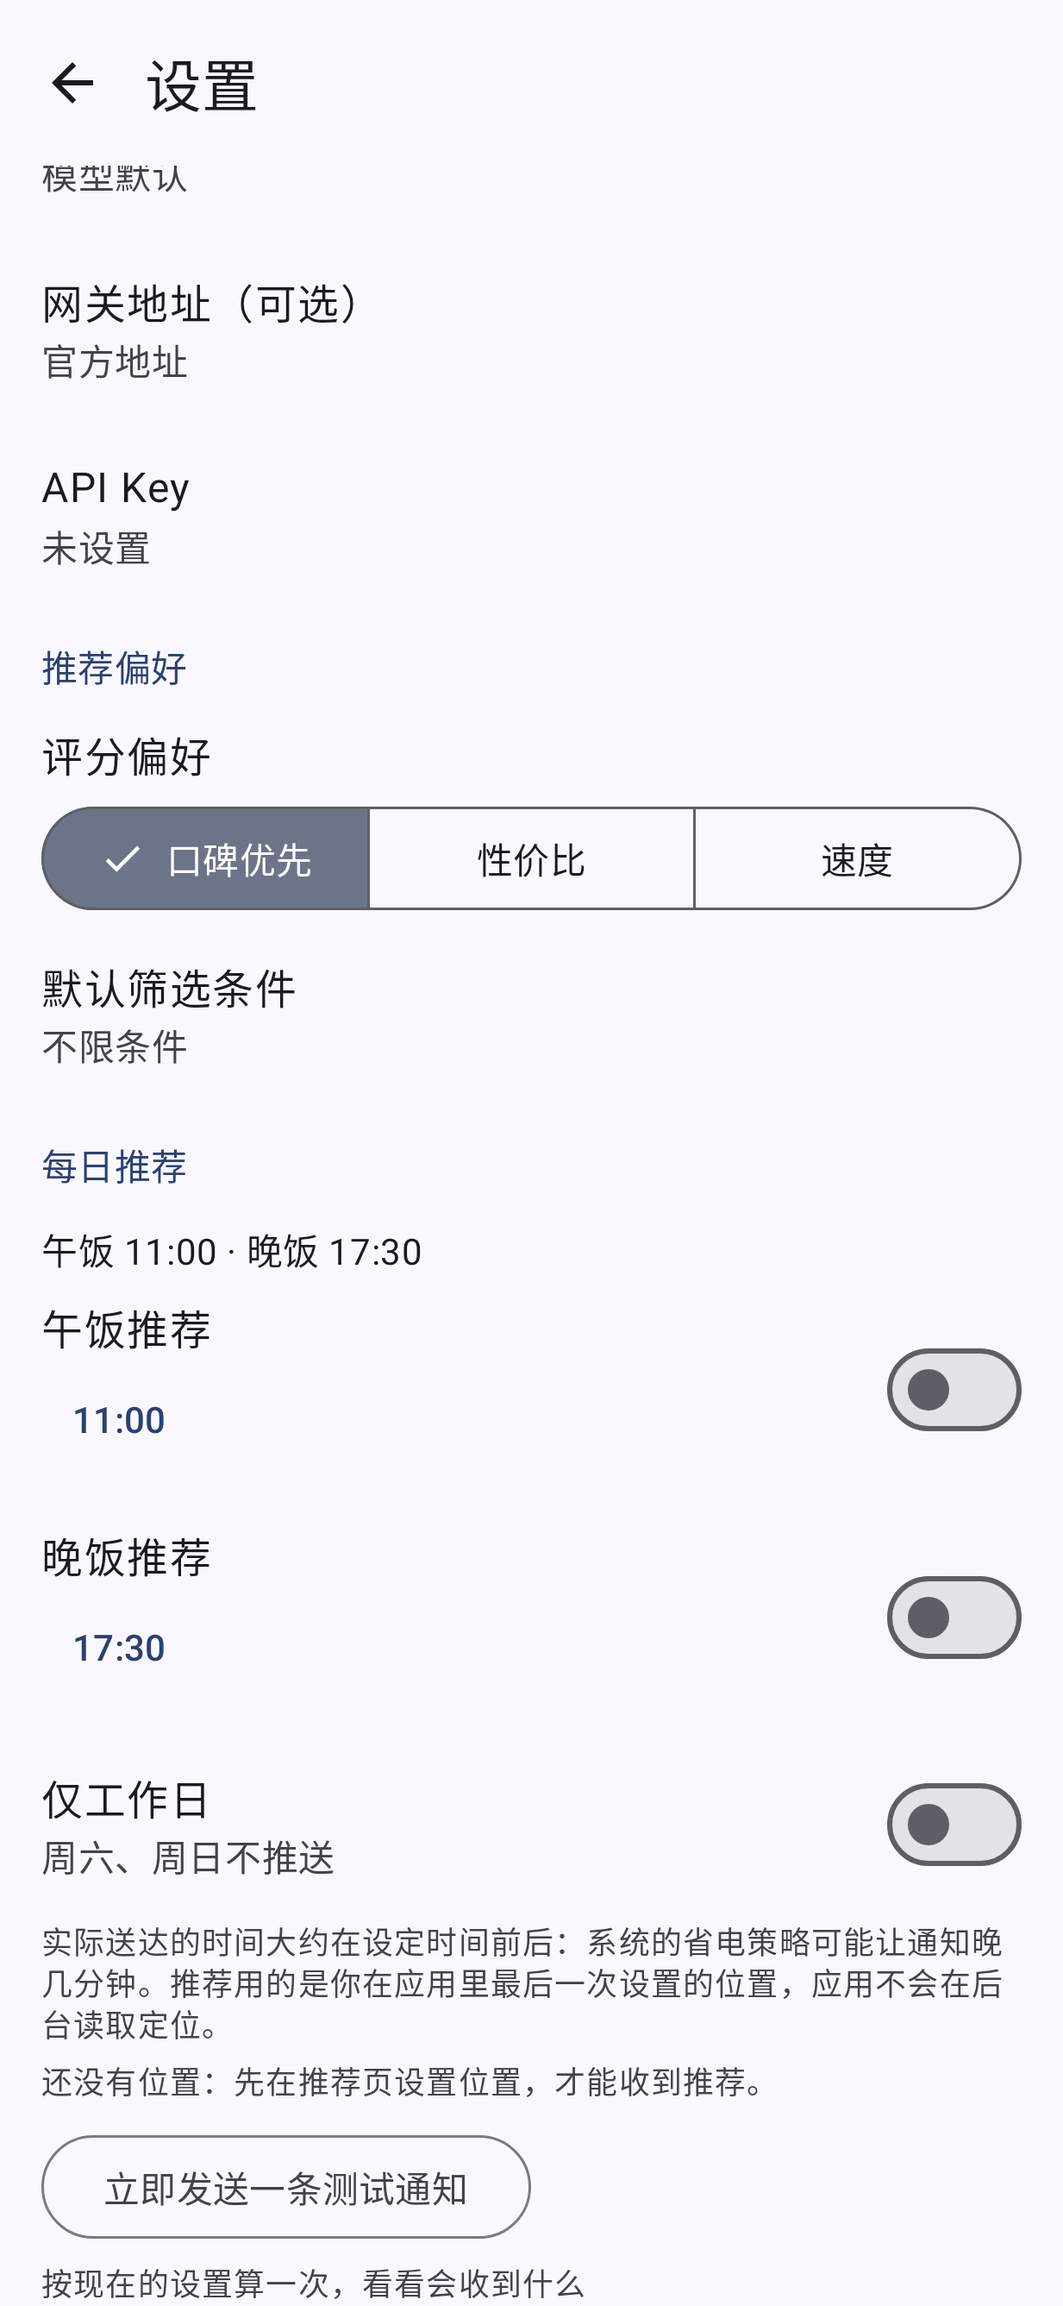
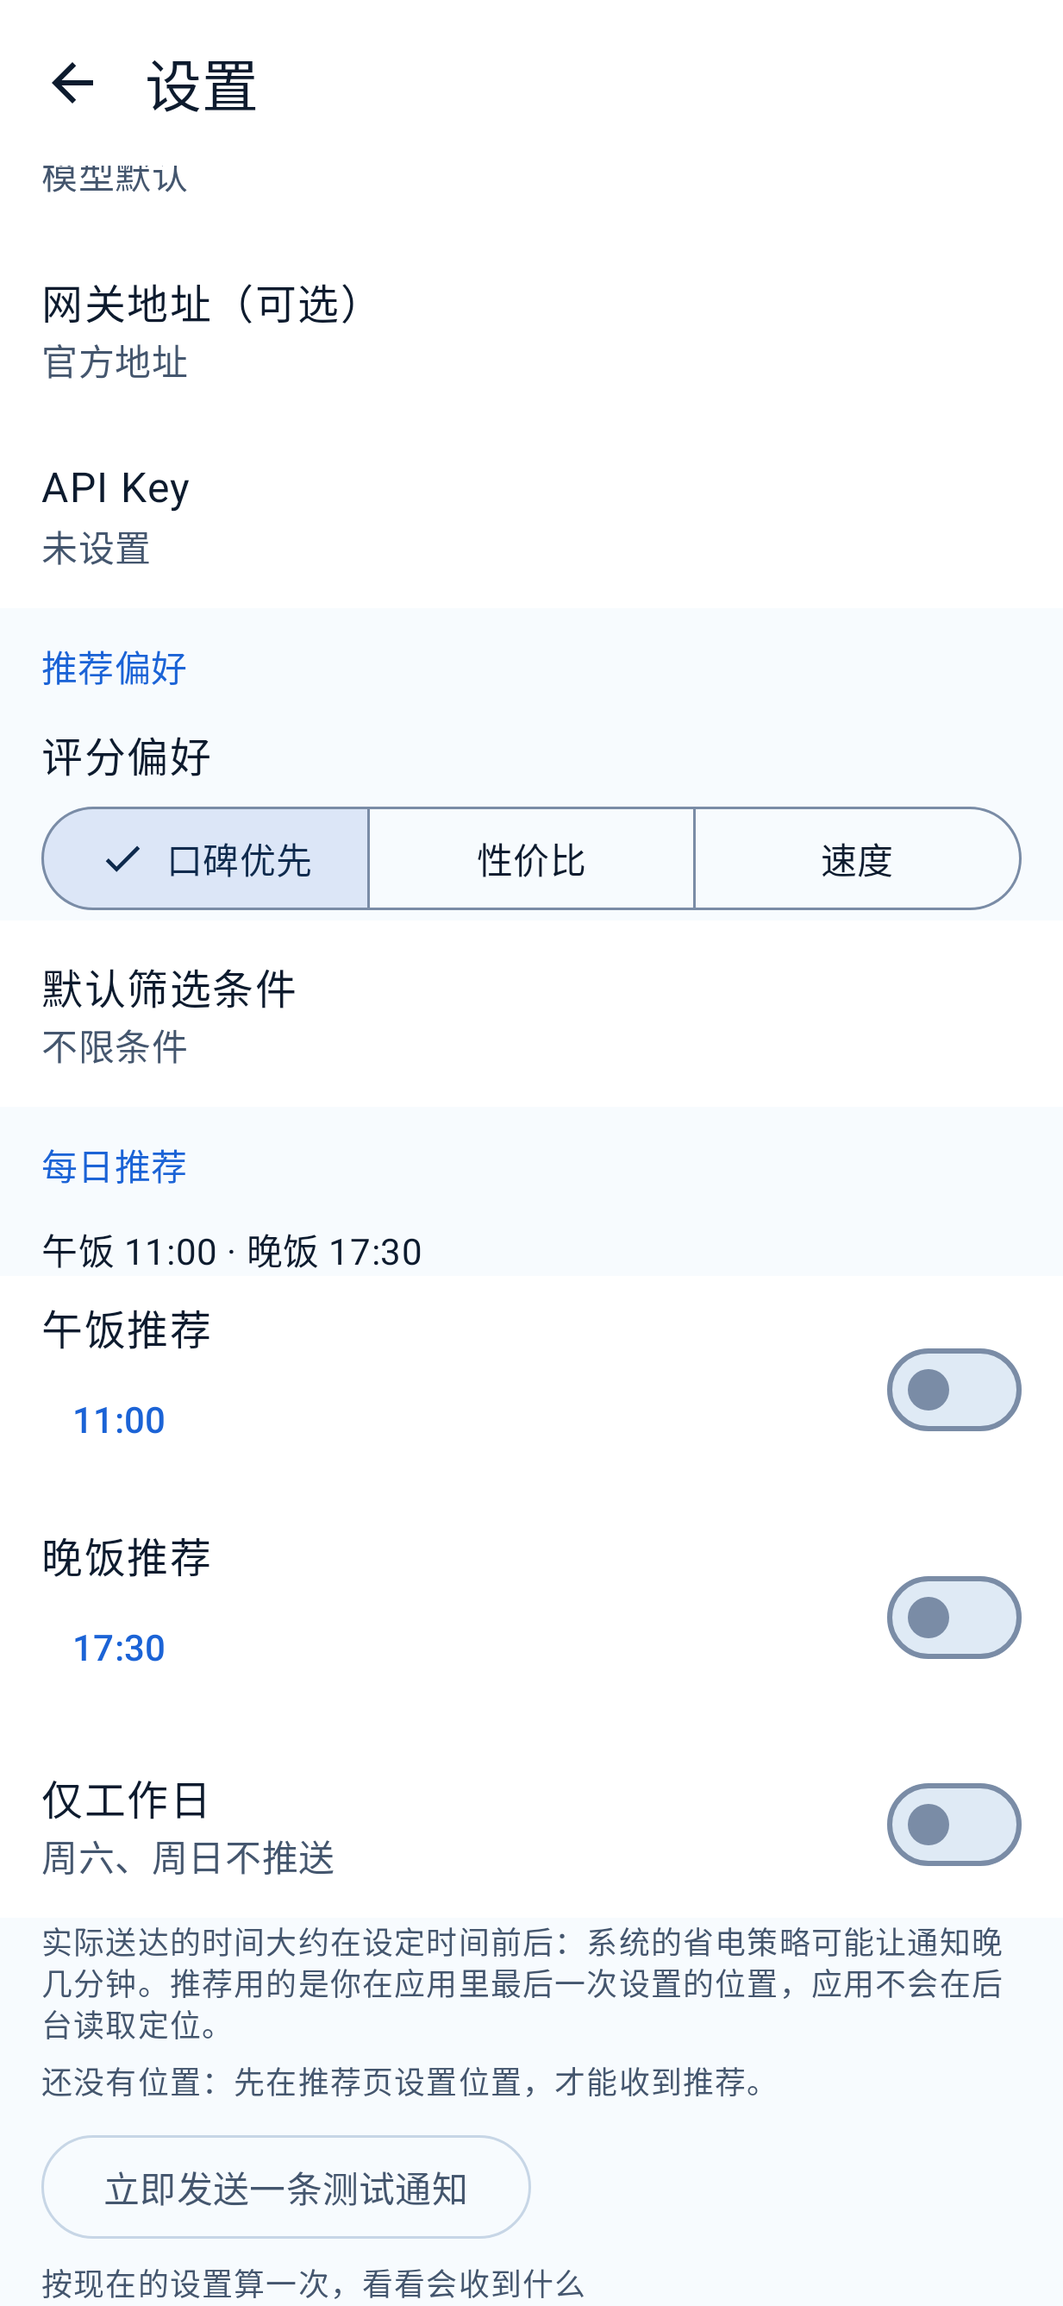
Re-theme from orange to the deep-sea blue brand palette
Per the style handoff (sections 3.1-3.4): new light/dark Material 3 schemes,
muted ink-green "good" and warm-gold "caution" semantic colours, launcher
background #0E3D7A, and KoubeiTheme(dynamicColor = false) by default so the
wallpaper palette no longer overrides the brand colours on Android 12+.
Only Theme.kt and colors.xml carry colours; no logic, layout or test changed.

The character art that inspired the palette is not in the repo or the APK
(CC BY-NC-SA, non-commercial). Screenshots in docs/ are re-rendered with the
new theme. CLAUDE.md added with the project conventions supplied by the owner.

Claude-Session: https://claude.ai/code/session_01ArcJ59BofKtBQiZUgYFEGq

diff --git a/app/src/main/kotlin/com/koubeiradar/app/ui/theme/Theme.kt b/app/src/main/kotlin/com/koubeiradar/app/ui/theme/Theme.kt
@@ -16,50 +16,52 @@ import androidx.compose.runtime.staticCompositionLocalOf
 import androidx.compose.ui.graphics.Color
 import androidx.compose.ui.platform.LocalContext
 
-// Tonal palette generated from the brand seed #FF6A00 (Material "vibrant" scheme).
+// Tonal palette generated from the deep-sea brand seed #2676ED.
 private val LightColors = lightColorScheme(
-    primary = Color(0xFFA14000), onPrimary = Color(0xFFFFFFFF),
-    primaryContainer = Color(0xFFFFDBCC), onPrimaryContainer = Color(0xFF7B2F00),
-    secondary = Color(0xFF7D5635), onSecondary = Color(0xFFFFFFFF),
-    secondaryContainer = Color(0xFFFFDCC2), onSecondaryContainer = Color(0xFF623F20),
-    tertiary = Color(0xFF7D571D), onTertiary = Color(0xFFFFFFFF),
-    tertiaryContainer = Color(0xFFFFDDB4), onTertiaryContainer = Color(0xFF624005),
+    primary = Color(0xFF1B63D6), onPrimary = Color(0xFFFFFFFF),
+    primaryContainer = Color(0xFFD3E6FF), onPrimaryContainer = Color(0xFF062251),
+    inversePrimary = Color(0xFF9CC9FF),
+    secondary = Color(0xFF4A5F86), onSecondary = Color(0xFFFFFFFF),
+    secondaryContainer = Color(0xFFDCE6F7), onSecondaryContainer = Color(0xFF0E2A4D),
+    tertiary = Color(0xFF8A6A20), onTertiary = Color(0xFFFFFFFF),
+    tertiaryContainer = Color(0xFFF7E8C4), onTertiaryContainer = Color(0xFF3A2A00),
     error = Color(0xFFBA1A1A), onError = Color(0xFFFFFFFF),
     errorContainer = Color(0xFFFFDAD6), onErrorContainer = Color(0xFF93000A),
-    background = Color(0xFFFFF8F6), onBackground = Color(0xFF261812),
-    surface = Color(0xFFFFF8F6), onSurface = Color(0xFF261812),
-    surfaceVariant = Color(0xFFFCDCCE), onSurfaceVariant = Color(0xFF584238),
-    outline = Color(0xFF8B7266), outlineVariant = Color(0xFFDFC0B3),
-    inverseSurface = Color(0xFF3D2D25), inverseOnSurface = Color(0xFFFFEDE6), inversePrimary = Color(0xFFFFB694),
-    surfaceTint = Color(0xFFA14000),
-    surfaceDim = Color(0xFFF0D4C9), surfaceBright = Color(0xFFFFF8F6),
-    surfaceContainerLowest = Color(0xFFFFFFFF), surfaceContainerLow = Color(0xFFFFF1EB),
-    surfaceContainer = Color(0xFFFFEAE1), surfaceContainerHigh = Color(0xFFFEE3D7),
-    surfaceContainerHighest = Color(0xFFF8DDD2),
+    background = Color(0xFFF7FBFE), onBackground = Color(0xFF0D1B2E),
+    surface = Color(0xFFFFFFFF), onSurface = Color(0xFF0D1B2E),
+    surfaceVariant = Color(0xFFE3EDF7), onSurfaceVariant = Color(0xFF44566E),
+    outline = Color(0xFF7A8CA6), outlineVariant = Color(0xFFC7D6E6),
+    inverseSurface = Color(0xFF2B3A4D), inverseOnSurface = Color(0xFFEAF1F8),
+    surfaceTint = Color(0xFF1B63D6),
+    surfaceDim = Color(0xFFDCE6F0), surfaceBright = Color(0xFFFFFFFF),
+    surfaceContainerLowest = Color(0xFFFFFFFF), surfaceContainerLow = Color(0xFFFAFCFE),
+    surfaceContainer = Color(0xFFF0F6FC), surfaceContainerHigh = Color(0xFFE8F1FA),
+    surfaceContainerHighest = Color(0xFFDFEAF5),
 )
 
 private val DarkColors = darkColorScheme(
-    primary = Color(0xFFFFB694), onPrimary = Color(0xFF571F00),
-    primaryContainer = Color(0xFF7B2F00), onPrimaryContainer = Color(0xFFFFDBCC),
-    secondary = Color(0xFFEFBC94), onSecondary = Color(0xFF48290C),
-    secondaryContainer = Color(0xFF623F20), onSecondaryContainer = Color(0xFFFFDCC2),
-    tertiary = Color(0xFFF1BE7A), onTertiary = Color(0xFF452B00),
-    tertiaryContainer = Color(0xFF624005), onTertiaryContainer = Color(0xFFFFDDB4),
+    primary = Color(0xFF9CC9FF), onPrimary = Color(0xFF002F66),
+    primaryContainer = Color(0xFF0E3D7A), onPrimaryContainer = Color(0xFFD3E6FF),
+    inversePrimary = Color(0xFF1B63D6),
+    secondary = Color(0xFFB3C6E0), onSecondary = Color(0xFF1C3048),
+    secondaryContainer = Color(0xFF33475F), onSecondaryContainer = Color(0xFFDCE6F7),
+    tertiary = Color(0xFFEBD69E), onTertiary = Color(0xFF3A2A00),
+    tertiaryContainer = Color(0xFF5A4410), onTertiaryContainer = Color(0xFFF7E8C4),
     error = Color(0xFFFFB4AB), onError = Color(0xFF690005),
     errorContainer = Color(0xFF93000A), onErrorContainer = Color(0xFFFFDAD6),
-    background = Color(0xFF1D100A), onBackground = Color(0xFFF8DDD2),
-    surface = Color(0xFF1D100A), onSurface = Color(0xFFF8DDD2),
-    surfaceVariant = Color(0xFF584238), onSurfaceVariant = Color(0xFFDFC0B3),
-    outline = Color(0xFFA68B7F), outlineVariant = Color(0xFF584238),
-    inverseSurface = Color(0xFFF8DDD2), inverseOnSurface = Color(0xFF3D2D25), inversePrimary = Color(0xFFA14000),
-    surfaceTint = Color(0xFFFFB694),
-    surfaceDim = Color(0xFF1D100A), surfaceBright = Color(0xFF47352E),
-    surfaceContainerLowest = Color(0xFF180B06), surfaceContainerLow = Color(0xFF261812),
-    surfaceContainer = Color(0xFF2B1C15), surfaceContainerHigh = Color(0xFF36261F),
-    surfaceContainerHighest = Color(0xFF42312A),
+    background = Color(0xFF061224), onBackground = Color(0xFFD8E6F5),
+    surface = Color(0xFF0B1A30), onSurface = Color(0xFFD8E6F5),
+    surfaceVariant = Color(0xFF1B2C46), onSurfaceVariant = Color(0xFFAFC2D8),
+    outline = Color(0xFF8CA0BC), outlineVariant = Color(0xFF3A4C66),
+    inverseSurface = Color(0xFFD8E6F5), inverseOnSurface = Color(0xFF0B1A30),
+    surfaceTint = Color(0xFF9CC9FF),
+    surfaceDim = Color(0xFF061224), surfaceBright = Color(0xFF22354F),
+    surfaceContainerLowest = Color(0xFF040D1A), surfaceContainerLow = Color(0xFF0A1728),
+    surfaceContainer = Color(0xFF102340), surfaceContainerHigh = Color(0xFF16304F),
+    surfaceContainerHighest = Color(0xFF1E3B5E),
 )
 
-/** Semantic colours Material 3 has no roles for: "good" and "caution". They stay fixed when dynamic colour is on. */
+/** Semantic colours Material 3 has no roles for: "good" (muted ink green) and "caution" (warm gold). They stay fixed when dynamic colour is on. */
 @Immutable
 class KoubeiColors(
     val success: Color,
@@ -71,13 +73,13 @@ class KoubeiColors(
 )
 
 private val LightKoubeiColors = KoubeiColors(
-    success = Color(0xFF376934), successContainer = Color(0xFFB8F1AD), onSuccessContainer = Color(0xFF002203),
-    warning = Color(0xFF825500), warningContainer = Color(0xFFFFDDB2), onWarningContainer = Color(0xFF291800),
+    success = Color(0xFF2E7D46), successContainer = Color(0xFFC3EFCD), onSuccessContainer = Color(0xFF00210B),
+    warning = Color(0xFF8A6A20), warningContainer = Color(0xFFF7E8C4), onWarningContainer = Color(0xFF3A2A00),
 )
 
 private val DarkKoubeiColors = KoubeiColors(
-    success = Color(0xFF9CD593), successContainer = Color(0xFF1E511E), onSuccessContainer = Color(0xFFB8F1AD),
-    warning = Color(0xFFFFB94E), warningContainer = Color(0xFF624000), onWarningContainer = Color(0xFFFFDDB2),
+    success = Color(0xFF9CD9AE), successContainer = Color(0xFF14532B), onSuccessContainer = Color(0xFFC3EFCD),
+    warning = Color(0xFFEBD69E), warningContainer = Color(0xFF5A4410), onWarningContainer = Color(0xFFF7E8C4),
 )
 
 private val LocalKoubeiColors = staticCompositionLocalOf { LightKoubeiColors }
@@ -90,7 +92,8 @@ val MaterialTheme.koubeiColors: KoubeiColors
 @Composable
 fun KoubeiTheme(
     darkTheme: Boolean = isSystemInDarkTheme(),
-    dynamicColor: Boolean = true,
+    // Brand colours come first: with true, Android 12+ takes the wallpaper palette and LightColors/DarkColors are ignored.
+    dynamicColor: Boolean = false,
     content: @Composable () -> Unit,
 ) {
     val colorScheme: ColorScheme = when {

diff --git a/docs/DESIGN.md b/docs/DESIGN.md
@@ -304,7 +304,7 @@ UI 与智能体共享的内存池 = **附近店铺（来自 ShopSource）∪ 导
 
 ## 7. Android 应用（`:app`）
 
-技术栈：Kotlin、Jetpack Compose + Material 3（动态取色）、Navigation Compose、ViewModel + StateFlow、DataStore、协程；**手动 DI**（`AppContainer`），不引入 Hilt/KSP；`minSdk 26`，`targetSdk 36`。**不依赖 Google Play 服务**（国内机型常没有）：定位用系统 `LocationManager`。
+技术栈：Kotlin、Jetpack Compose + Material 3（深海蓝品牌配色，默认关闭动态取色）、Navigation Compose、ViewModel + StateFlow、DataStore、协程；**手动 DI**（`AppContainer`），不引入 Hilt/KSP；`minSdk 26`，`targetSdk 36`。**不依赖 Google Play 服务**（国内机型常没有）：定位用系统 `LocationManager`。
 
 | 页面 | 内容 |
 |---|---|
@@ -361,7 +361,7 @@ UI 与智能体共享的内存池 = **附近店铺（来自 ShopSource）∪ 导
 | `:agent` | 假 LLM 脚本化跑完整循环（并行工具、提醒一次、兜底、未知 shop_id 纠错、提示注入）；两个客户端用 MockWebServer 验证线协议（Claude 为 SSE 流：thinking 签名与分片入参重组、流中途 `error`、断流、取消即断开连接，以及 thinking 块回放、`is_error`、工具结果合并；OpenAI `arguments` 字符串）；**端到端：真实工具 + 真实候选池 + 真实打分器 + 脚本化模型** | 155 |
 | `:app` | ViewModel（假服务；含定位地址：先显示定位、后台解析出标签并持久化、失败静默、演示模式零请求、新定位/手输地址取消旧解析、旧版空地址设备位置照常读取）、设置与加密（含数据源选择、百度 AK、旧版设置兼容）、数据源选择、坐标转换、分享入口与限额、持久化；**Robolectric 冒烟测试**：真实 `MainActivity`/`AppContainer` 启动到首帧、各标签与详情/设置导航、旋转重建、分享入口、无 Key 引导、权限被拒、1.5 倍字体、暗色，并产出截图；**每日推荐**：`nextTrigger` 边界（严格晚于、周末、跨月年、夏令时）、用例决定（无位置/无店/避雷/文案/重试）、设置持久化与旧版本兼容、WorkManager 请求与通知（Robolectric） | 274 |
 
-冒烟测试在 JVM 上跑，**不等于真机**：真实 AndroidKeyStore、软键盘/窗口边距、真实定位、动态取色都没有覆盖（定位地址的冒烟测试用的是假的反向地理编码器，没有网络）。它们发现并修复了 3 个真实缺陷（异常的分享提供方让导入页崩溃；分享到达时已存活的导入页不会切换标签；提示条按钮白底白字），评审中又加固了持久化写线程（任何异常都不会让它静默停止）；两位独立评审者另外复现并修复了 10 个缺陷（见 README），其回归测试在 `reviewer/`、`review/` 包下；其中 R1a/R1e 验证取消 Claude 调用会真的断开连接（响应头之前的限制见 §5.5）。
+冒烟测试在 JVM 上跑，**不等于真机**：真实 AndroidKeyStore、软键盘/窗口边距、真实定位、品牌配色在真机上的实际观感都没有覆盖（定位地址的冒烟测试用的是假的反向地理编码器，没有网络）。它们发现并修复了 3 个真实缺陷（异常的分享提供方让导入页崩溃；分享到达时已存活的导入页不会切换标签；提示条按钮白底白字），评审中又加固了持久化写线程（任何异常都不会让它静默停止）；两位独立评审者另外复现并修复了 10 个缺陷（见 README），其回归测试在 `reviewer/`、`review/` 包下；其中 R1a/R1e 验证取消 Claude 调用会真的断开连接（响应头之前的限制见 §5.5）。
 
 未验证：真实高德/百度/Claude/OpenAI 兼容接口（只有 MockWebServer；反向地理编码的 `formatted_address`、无结果的真实返回与地址质量，见 §3.5；百度 3.0 圆形检索的评分字段嵌套形状（页面无示例）、`type` 作关键字筛选与 `sort_name:distance` 的实际效果、每页实际条数、地理编码无结果的返回、真实 AK 的 IP 白名单/SN 限制，见 §3.4）、Anthropic SDK 在 Android 上的运行、R8 规则在真机上的效果（§7.2，只检查过 R8 输出）、外卖 App 包名、评分对真实数据的校准。
 

diff --git a/CLAUDE.md b/CLAUDE.md
@@ -1,0 +1,81 @@
+# 口碑雷达 · 项目约定
+
+Android App：从附近外卖/餐厅里按「口碑」筛店。Kotlin + Jetpack Compose + Material 3。
+
+## 架构
+
+```
+:app   (Compose UI)  ──►  :agent (LLM 客户端、顾问智能体、导入提取器)
+         │                      │
+         └──────►  :data (高德/百度 POI、地理编码、演示数据、候选池)  ──►  :core (模型、口碑评分、筛选)
+```
+
+评分是确定性、可解释的内核；LLM 只负责听懂需求、读评价、把截图变数据。**不要为了 UI 改动碰 core/data/agent。**
+
+构建：JDK 17+ / compileSdk 37 / `./gradlew test`（820 条，全绿是基线）/ `./gradlew assembleDebug`。
+
+---
+
+## 视觉：深海蓝系统
+
+品牌视觉来自社区「鲸鱼娘 / 蓝色大肥鱼」形象的风格拆解，**只取视觉语言，不取角色**。完整规范见 `../whale_style_assets/whale_style_guide.md`（项目外，只读参考）。
+
+### 色阶
+
+```
+ink_900   #062251   最深文字、轮廓
+blue_800  #0E3D7A   深位背景
+blue_700  #14305E   卡片标题
+blue_600  #2676ED   主强调（seed）
+blue_500  #0D9EF0   高亮、链接
+cyan_400  #5CA0C4   次级强调
+cyan_300  #65CBF1   图表、进度
+cyan_100  #A4E9F5   浅底
+gold_300  #EBD69E   徽章边、星级
+gold_500  #C9A961   描边、分割
+blush_200 #F5C8C3   弱警示
+violet_700 #363F6A  暗色卡片
+```
+
+### 五条造型规则
+
+1. 单色相纵深：只走蓝一个色相，靠明度拉层次；金色点缀面积 ≤ 3%
+2. 描边用深蓝 `#1C2A4A`，不用纯黑
+3. 转角全圆，不出现尖角
+4. 四段渐变 `#1C3064 → #38609C → #5CA0C4 → #A0D0E4`，用于按钮/进度环/评分环
+5. 留白靠纯白切分，弱化 divider
+
+强调渐变：`#2676ED → #65CBF1`（135°）。
+
+### 语义色
+
+好评用低饱和墨绿 `#2E7D46`（深色模式 `#9CD9AE`），不用草绿；警示用暖金 `#8A6A20`（深色 `#EBD69E`）。语义色在 `Theme.kt` 的 `KoubeiColors` 里，不进 `colorScheme`。
+
+---
+
+## 硬约束
+
+**1. 素材不进 APK。**
+`../whale_style_assets/` 下的角色图片是 CC BY-NC-SA 4.0，禁止商用。不要复制到 `app/src/main/res/`，不要打包进任何构建产物。只可用作颜色、圆角、线宽、图标造型的参考。要放吉祥物必须自绘原创形象。
+
+**2. 品牌色不能被动态取色覆盖。**
+`KoubeiTheme` 的 `dynamicColor` 必须保持 `false`。为 `true` 时 Android 12+ 会走 `dynamicLightColorScheme()` 从用户壁纸取色，`LightColors`/`DarkColors` 整个失效——模拟器看着变了、真机没变，就是这个原因。
+
+**3. 不要为适配配色去改测试断言。**
+除非测试里硬编码了旧色值。
+
+---
+
+## 代码风格
+
+- 主题集中在 `app/src/main/kotlin/com/koubeiradar/app/ui/theme/Theme.kt`，别在组件里散落硬编码颜色
+- 颜色优先走 `MaterialTheme.colorScheme.*`，语义色走 `MaterialTheme.koubeiColors.*`
+- 新增颜色先加到色阶表，再引用 token 名，不要直接写 hex
+- 布局用 Compose 原生，不引入新依赖
+
+## 文档
+
+- `README.md` — 功能、构建、验证状态（含「尚未真机联调」的如实说明）
+- `docs/RESEARCH.md` — 数据源调研
+- `docs/DESIGN.md` — 评分算法与架构
+- `../whale_style_assets/whale_style_guide.md` — 视觉规范与素材索引（项目外，只读参考）

diff --git a/README.md b/README.md
@@ -17,7 +17,7 @@
 
 ## 界面预览
 
-下面是在 JVM 上用 Robolectric 渲染的真实界面（演示数据，无需任何 Key）。配色是 Robolectric 的默认 Material You 取色，真机上会跟随你的壁纸。
+下面是在 JVM 上用 Robolectric 渲染的真实界面（演示数据，无需任何 Key）。配色是深海蓝品牌色（`KoubeiTheme` 的 `dynamicColor` 默认关闭，不跟随壁纸取色）；截图在 JVM 上渲染，真机上的实际观感没有核对过。
 
 | 推荐页 | 暗色模式 | 智能体 | 规则排序兜底 |
 |---|---|---|---|
@@ -83,7 +83,7 @@ export ANDROID_HOME=/path/to/android-sdk     # 或在 local.properties 里写 sd
 - 冒烟测试发现并修复了 3 个真实缺陷（异常的分享提供方会让导入页崩溃；分享到达时不会切到导入页；提示条按钮白底白字）。
 
 **没有验证（请自行确认）**
-- **真机/模拟器运行**：沙箱没有 KVM，没有跑过真实设备。Robolectric 不等于真机（动态取色、软键盘/窗口边距、真实 AndroidKeyStore、`LocationManager` 的真实定位都没覆盖）。
+- **真机/模拟器运行**：沙箱没有 KVM，没有跑过真实设备。Robolectric 不等于真机（品牌配色在真机上是否生效、软键盘/窗口边距、真实 AndroidKeyStore、`LocationManager` 的真实定位都没覆盖）。
 - **真实高德接口**：只用 MockWebServer 验证了解析与错误映射；字段名来自官方文档，没有用真实 Key 调用过。
 - **反向地理编码（定位地址）**：高德 `/v3/geocode/regeo` 与百度 `/reverse_geocoding/v3/` 的参数、返回字段对照官方页读过（经网页抓取摘要，两页都没有示例响应）；高德页没有说明 `regeocode.formatted_address` 与 `infocode`，两家"该点没有地址"的真实返回、高德 `radius` 在 `extensions=base` 下的效果、百度国内版专页都**没有核实**；全部只用 MockWebServer 与假实现验证，**没有调用过任何真实接口**，地址质量（街道/商圈是否合理）要真机真 Key 才知道。失败时界面静默退回"当前位置"。逐项见 [DESIGN.md §3.5](docs/DESIGN.md)。
 - **真实百度接口**：同样只有 MockWebServer。端点（官方「地点检索 3.0」`/place/v3/around`）、请求参数、返回字段（含 `comment_num`）、状态码表、地理编码都对照过 lbsyun.baidu.com 的官方页面；官方页没有示例响应，评分字段是否嵌套在 `detail_info` 里按两种形状都解析，`type` 关键字筛选与 `sort_name:distance` 的实际效果没有用真实 AK 验证；真实 AK 的 IP 白名单 / SN 校验行为、配额也没有验证。逐项的核实状态见 [DESIGN.md §3.4](docs/DESIGN.md)。
